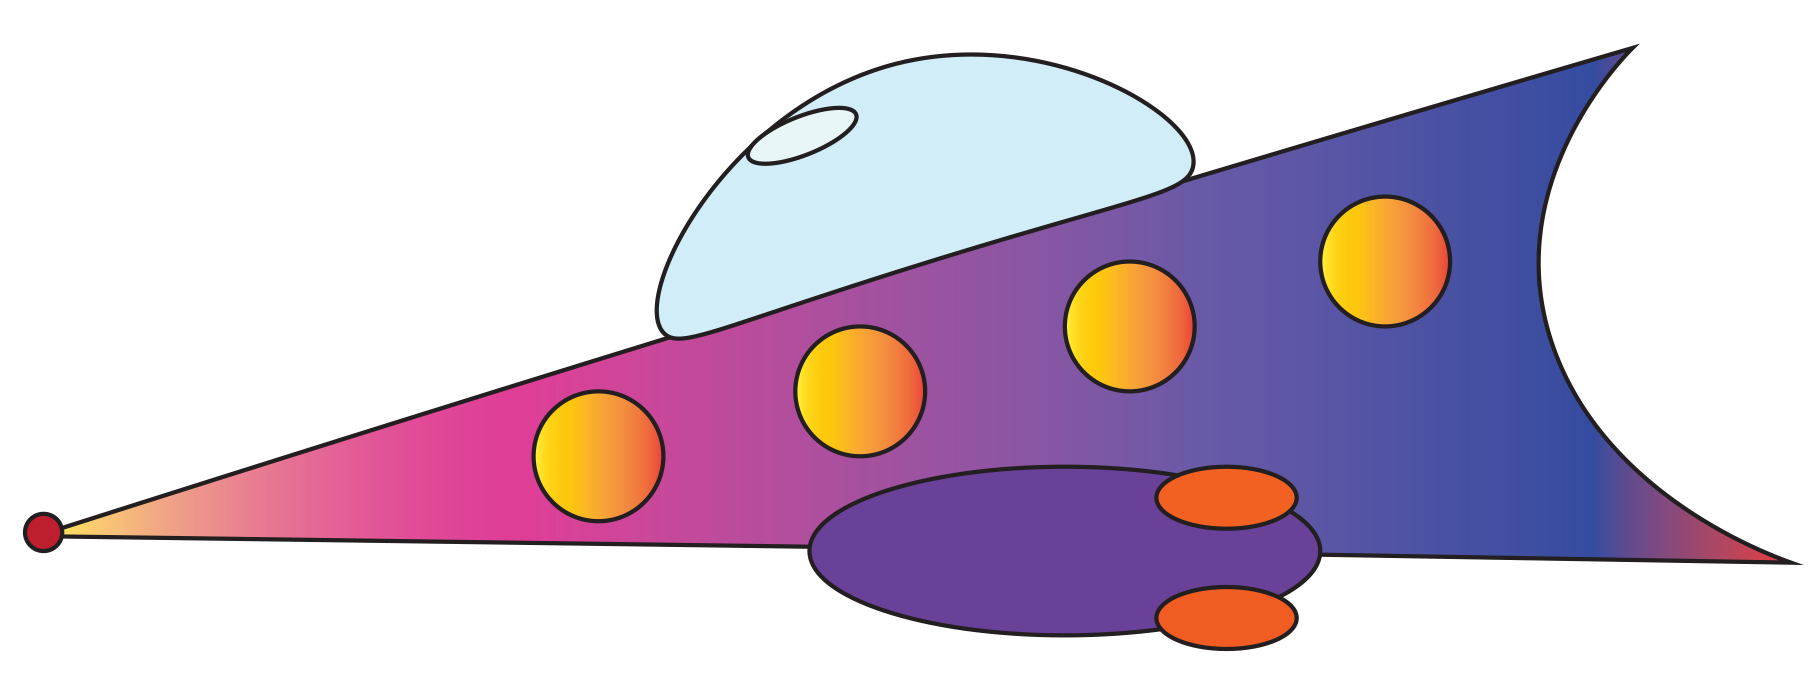
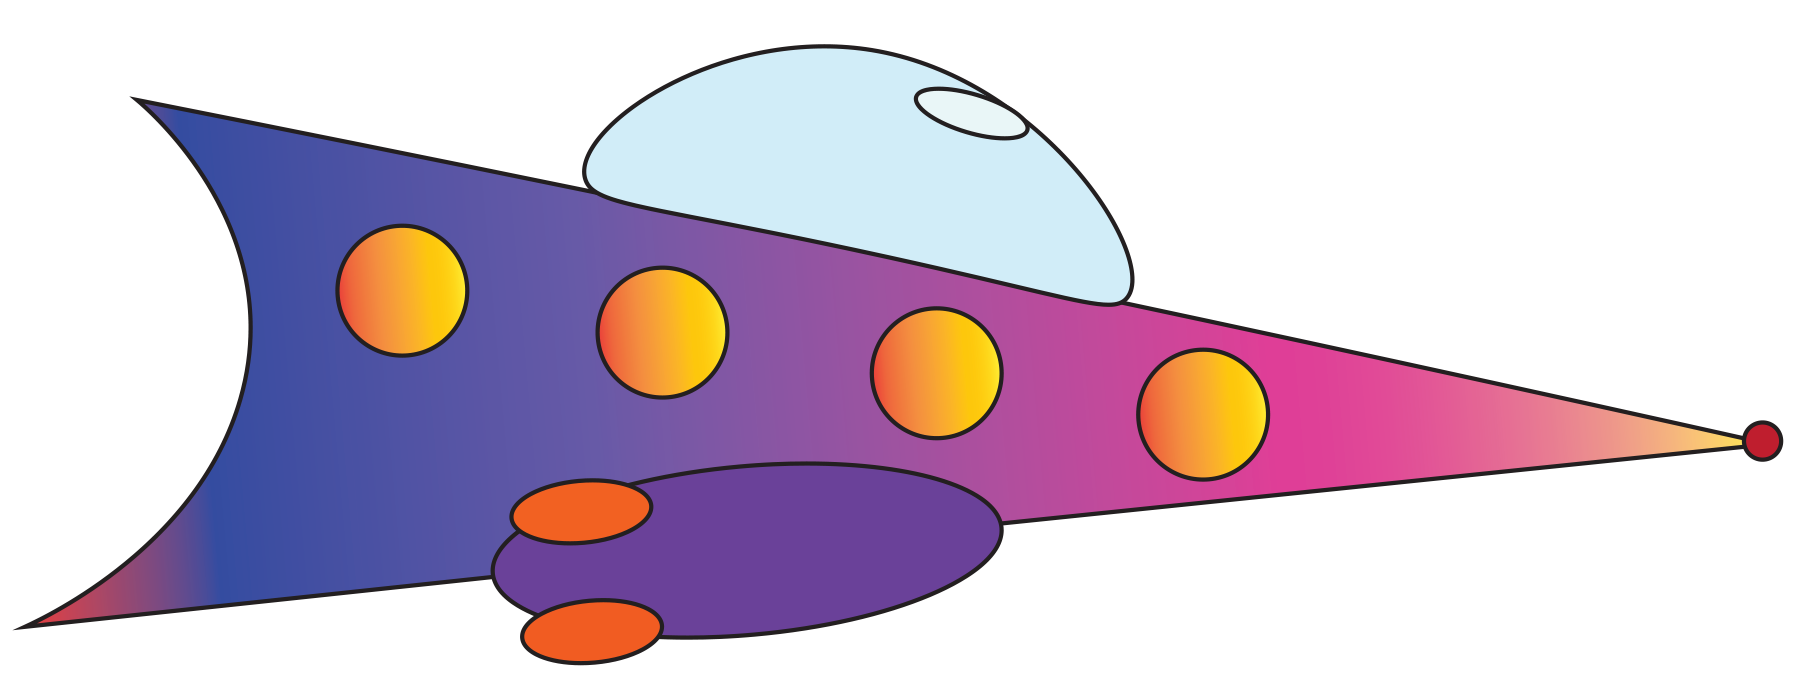
Change oreintation of spaceship and changed size of canvas

diff --git a/sketch.js b/sketch.js
@@ -9,7 +9,7 @@ function setup() {
   bg = loadImage('assets/space.png');
   img = loadImage('assets/spaceship.png');
 
-  createCanvas(800, 400);
+  createCanvas(1100, 400);
   ship = new Ship()
   pipes.push(new Pipe());
 
